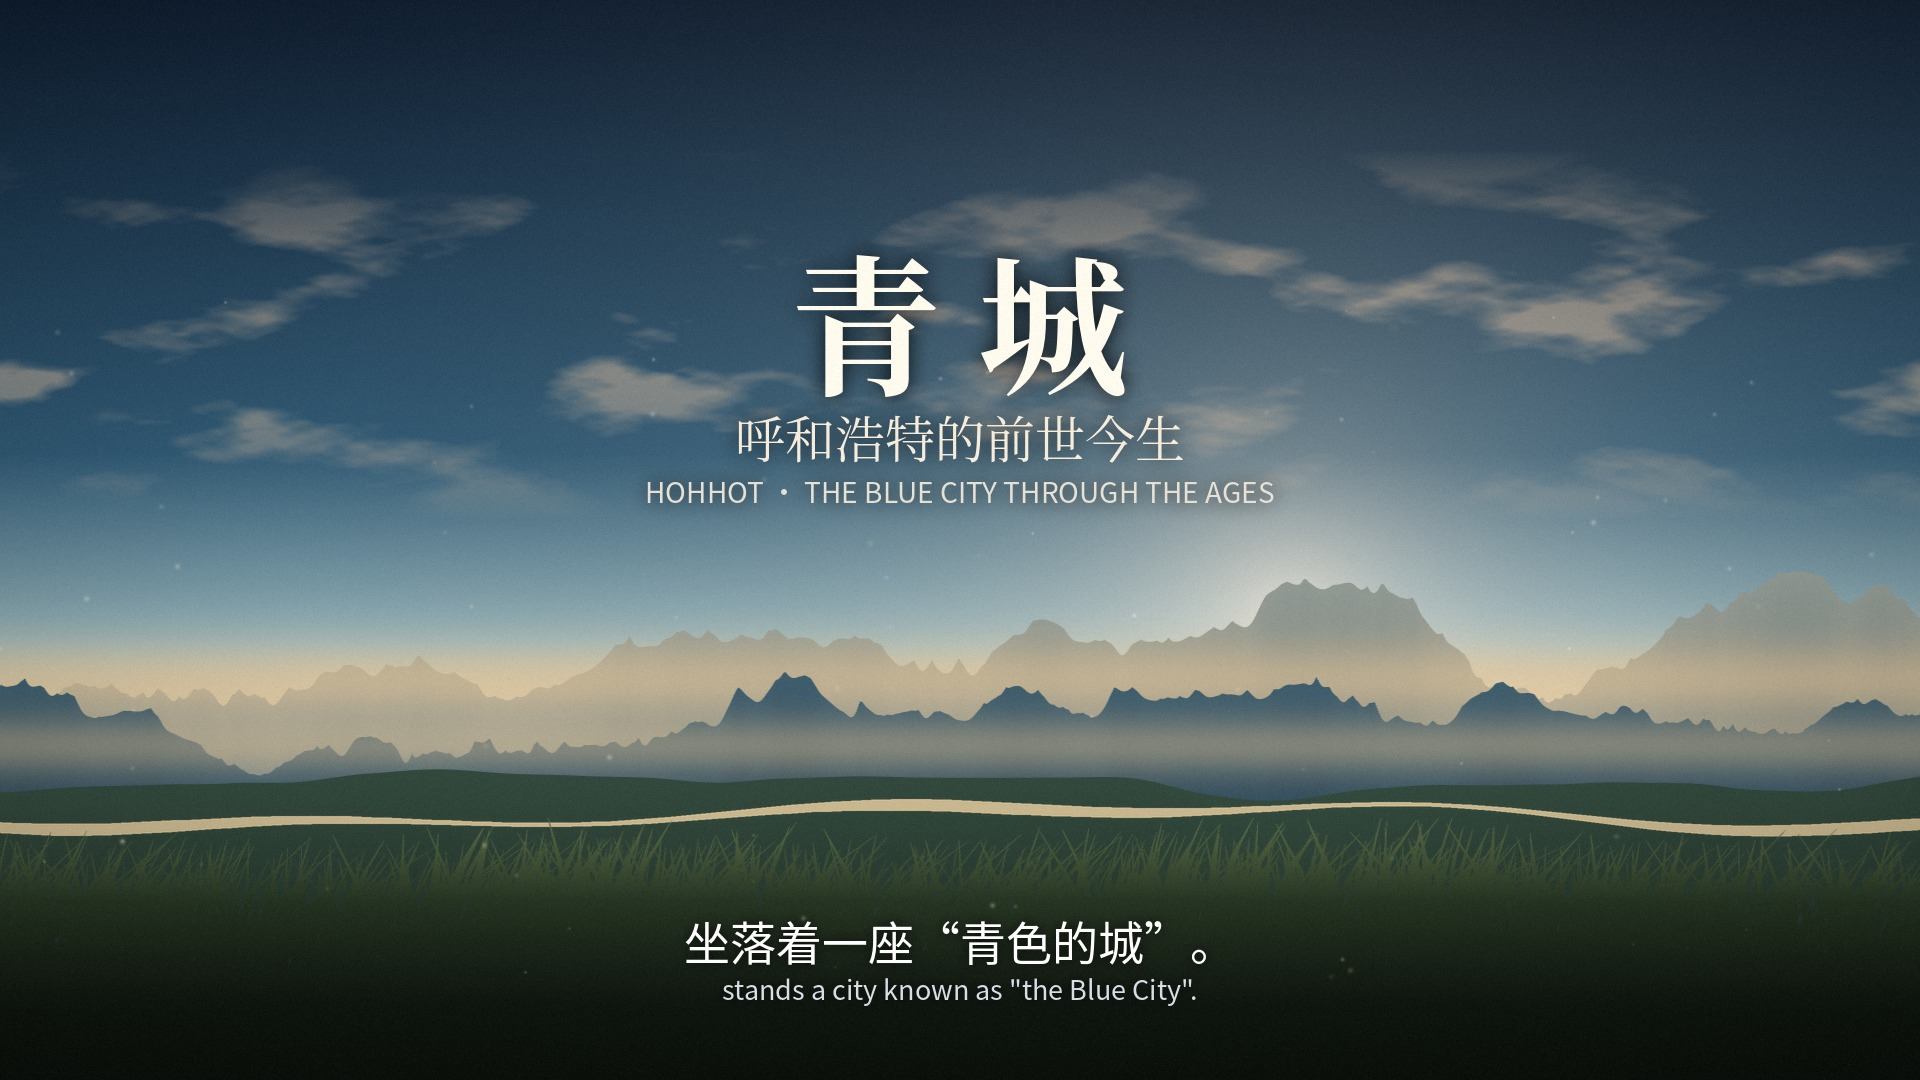
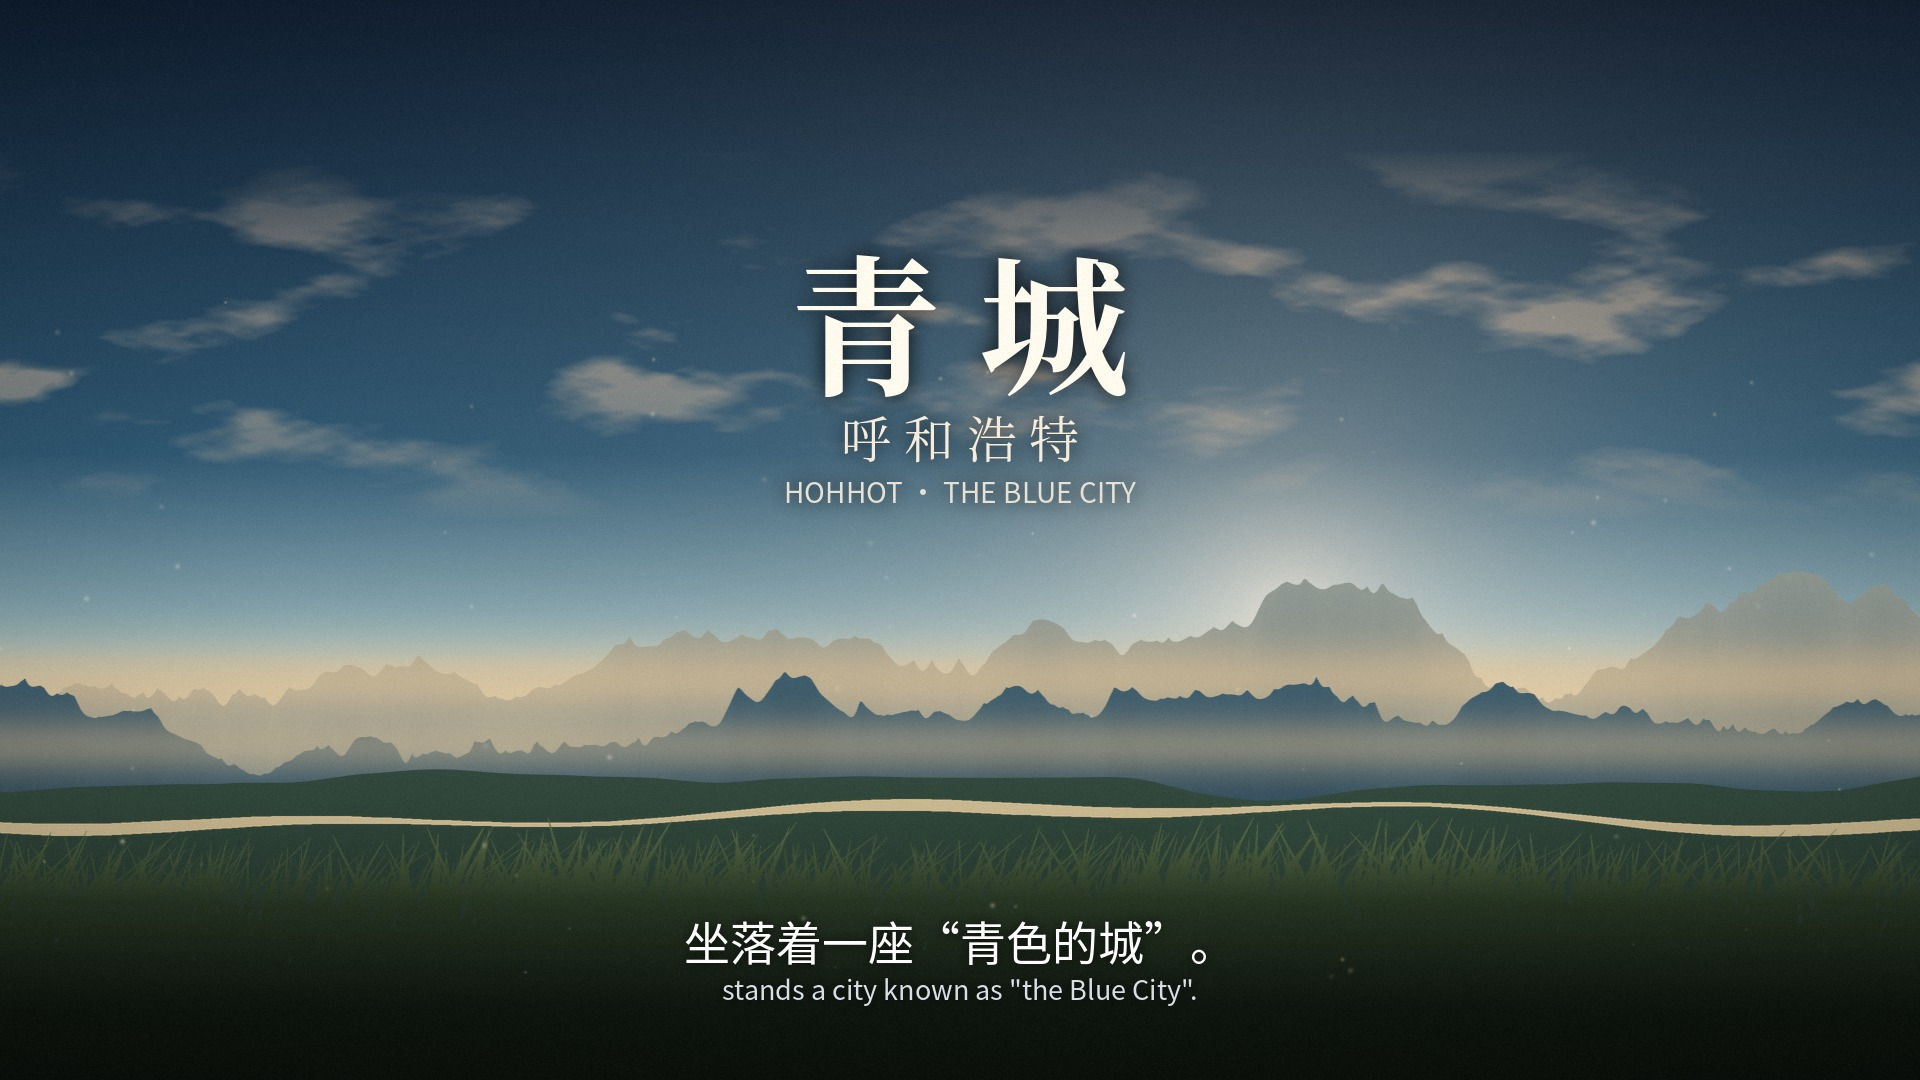
narrated2: 标题改为《青城 · 呼和浩特》；PLAYBOOK 增加旁白短片经验
Claude-Session: https://claude.ai/code/session_01VdfstadhBSKPBnt6XvW66x

Changed region(s): [[0.3438, 0.275, 0.6562, 0.4889]]

diff --git a/narrated2/render.py b/narrated2/render.py
@@ -1,4 +1,4 @@
-"""《青城 · 呼和浩特的前世今生》画面渲染：程序化分层风景 + 剪影 + 双语字幕。
+"""《青城 · 呼和浩特》画面渲染：程序化分层风景 + 剪影 + 双语字幕。
 
 画面全部用 numpy / Pillow 现场绘制，没有外部素材。每个场景由若干图层组成
 （天空、云、远山、近山、建筑、草地……），镜头横移时各层速度不同，形成视差。
@@ -883,8 +883,8 @@ class Texts:
                                                     (c["era_en"].upper(), sz, (225, 215, 195), 30)], shadow=8, pad=30))
                      for c in TL["chapters"] if c["era_zh"]]
         big, mid, small = font("NotoSerifCJK-Bold", 150), font("NotoSerifCJK-Regular", 50), font("NotoSansCJK-Regular", 28)
-        self.title = text_img([("青 城", big, (255, 250, 238), 190), ("呼和浩特的前世今生", mid, (245, 236, 220), 70),
-                               ("HOHHOT · THE BLUE CITY THROUGH THE AGES", small, (230, 225, 215), 40)], shadow=10)
+        self.title = text_img([("青 城", big, (255, 250, 238), 190), ("呼 和 浩 特", mid, (245, 236, 220), 70),
+                               ("HOHHOT · THE BLUE CITY", small, (230, 225, 215), 40)], shadow=10)
         tiny = font("NotoSansCJK-Regular", 22)
         self.credit = text_img([("旁白：AI 语音合成（微软云健）  ·  配乐与画面：代码生成", tiny, (225, 225, 225), 32),
                                 ("Narration: AI voice  ·  Music & visuals generated with code", tiny, (205, 205, 205), 30)], shadow=5)

diff --git a/PLAYBOOK.md b/PLAYBOOK.md
@@ -140,3 +140,61 @@ ffmpeg -y -i stellar_echo_full_bw.mp4 -c:v libx264 -preset slower -b:v 1650k -pa
 - 「先出静帧 / 10 秒 demo」——确认风格后再出完整版，省时间。
 - 「彩色 / 黑白 / 标志保留颜色」「标题出现时间」「分享平台的大小限制」——一开始说明，可以少改几轮。
 - 想换旋律或音色：改 `compose.py` 里的 `THEME` 和乐器函数；想换画面：改第 4 节的参数表。
+
+---
+
+## 8. 带 AI 旁白的解说短片（`narrated2/`《青城 · 呼和浩特》）
+
+### 一键复现
+
+```bash
+pip install numpy scipy pillow edge-tts piper-tts     # 中文字体：apt-get install fonts-noto-cjk
+```
+
+```bash
+cd narrated2 && python3 tts.py && python3 compose_bg.py && python3 mix.py
+```
+
+```bash
+cd narrated2 && python3 render.py --still 6 20 26.5 38 52 70 86 102 121   # 静帧 + contact_sheet.jpg
+```
+
+```bash
+cd narrated2 && python3 render.py --demo 26 10     # 10 秒 demo（含声音）
+```
+
+```bash
+cd narrated2 && python3 render.py                  # 完整 128 秒，4 进程约 15 分钟
+```
+
+### 数据流
+`script.json`（文案：每章锚点时间 + 中英句子）→ `tts.py` 逐句合成、去首尾静音、按锚点排进 128 秒 → `timeline.json`（每句起止、每章画面切换点）→ 混音和画面都读它。**改文案只改 `script.json`，然后重跑整条链。**
+
+### 语音合成（TTS）选型
+| 方案 | 中文音质 | 备注 |
+|---|---|---|
+| Edge 神经语音（`edge-tts`） | 最自然 | 免费、无需 key，但要联网；云健 = 沉稳男声，云希 = 年轻男声，晓晓 = 女声 |
+| Piper（本地） | 能听懂，有机器味 | 模型从 huggingface `rhasspy/piper-voices` 下；`chaowen`/`xiao_ya` 还要 `pip install unicode_rbnf sentence_stream` |
+| gTTS | 一般 | 不能调语速 |
+| espeak-ng | 机器人音 | 只作占位 |
+
+- **坑：Edge 在会话代理下报 `CERTIFICATE_VERIFY_FAILED`**。edge-tts 用 certifi 自带证书，设 `SSL_CERT_FILE` 没用；要在代码里替换 `edge_tts.communicate._SSL_CTX = ssl.create_default_context(cafile="/root/.ccr/ca-bundle.crt")`（见 `tts.py`）。
+- 正常语速的云健约每秒 4.5 个汉字；每章 16 秒放 3~4 句、50 字左右刚好。
+
+### 配乐与混音
+- `compose_bg.py`：D 羽调五声音阶，60 BPM × 32 小节 = 128 秒，每 4 小节对应一章；拉弦（滑音 + 延迟揉弦 + 带通共鸣，模仿马头琴）、拨弦（泛音衰减 + 起音下滑，模仿古筝）、手鼓、驼铃、风声。
+- `mix.py`：按 `timeline.json` 的句子时间做闪避（说话时音乐 × 0.38），比实时检测人声更干净。实测人声比音乐高约 12 dB，「淡淡的」。
+
+### 画面（`render.py`）
+- 全部程序化：1D 分形噪声画山脊（`ridged` 更像阴山的尖峰）、2D 噪声画层云、雾带做空气透视、PIL 2 倍超采样画建筑剪影和人物、上千根草叶按行做横向位移模拟风吹。
+- 图层比画面宽 720 px，各层横移速度不同 = 视差；用亚像素插值，慢速平移也不抖。
+- 场景切换 1.4 秒交叉淡化；字幕区底部压暗 + 文字柔和阴影，任何背景都看得清。
+
+### 踩过的坑
+| 问题 | 原因 | 解决 |
+|---|---|---|
+| 云变成竖条 | 噪声拉伸的轴写反了 | 生成窄而高的噪声后横向 `zoom(n, (1, stretch))` |
+| 10 秒 demo 65MB | 每帧随机的胶片颗粒让 H.264 无法帧间压缩 | 改成固定颗粒（同一张噪声），降到 5MB |
+| 太阳看不见 | 画在远山之前、位置低于山脊 | 太阳放在山脊线以上，或让它「从山后升起」 |
+| 车流光带压住字幕 | 道路高度落在字幕区 | 动态元素都避开 y > 900 的字幕区 |
+| `PIL GaussianBlur` 报 `wrong mode` | 对 float 数组 `Image.fromarray` 得到 F 模式 | 用 `scipy.ndimage.gaussian_filter` |
